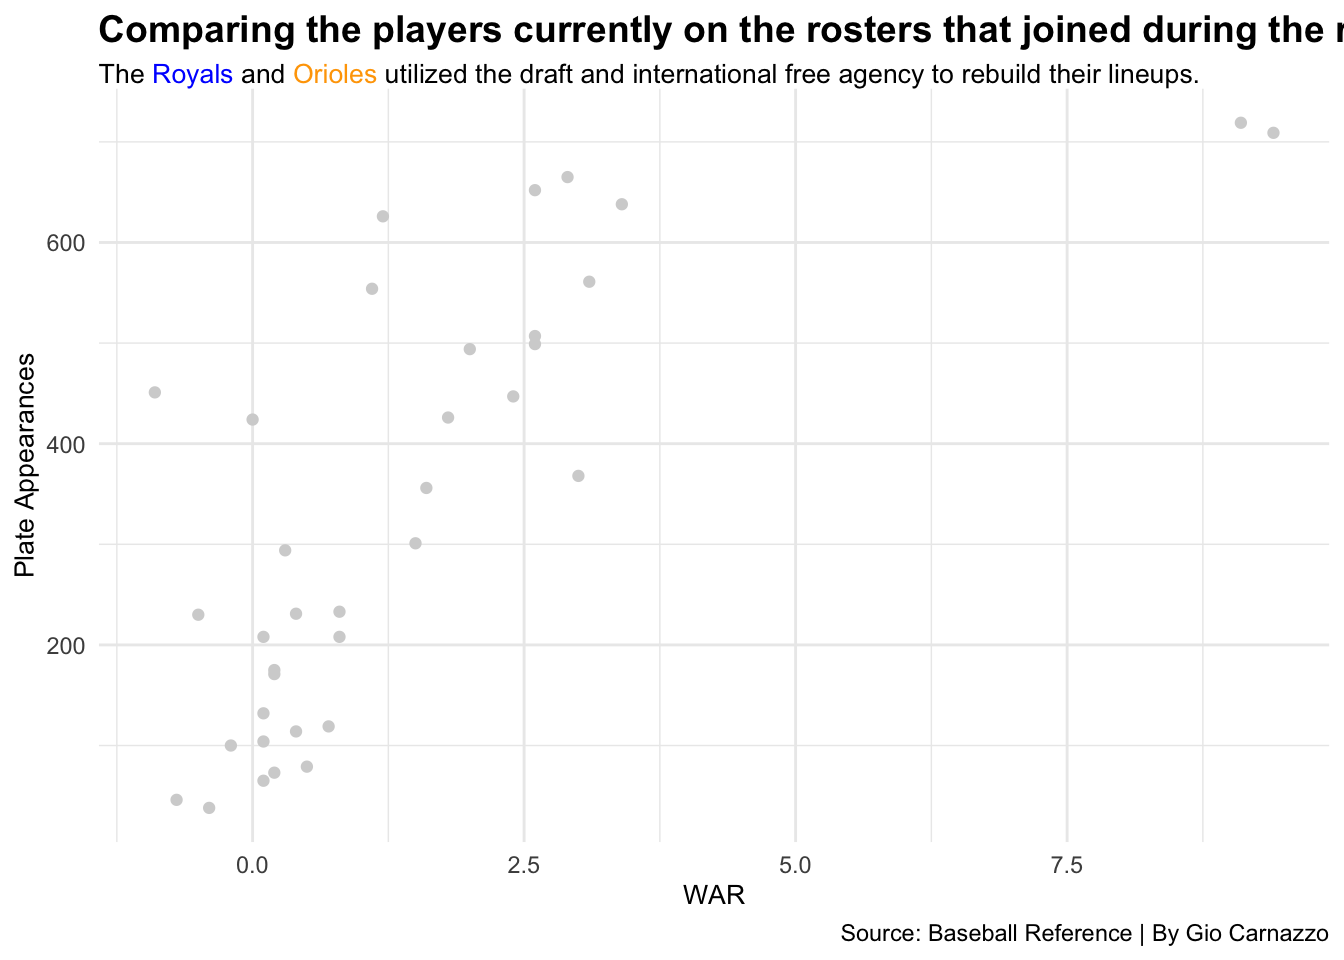
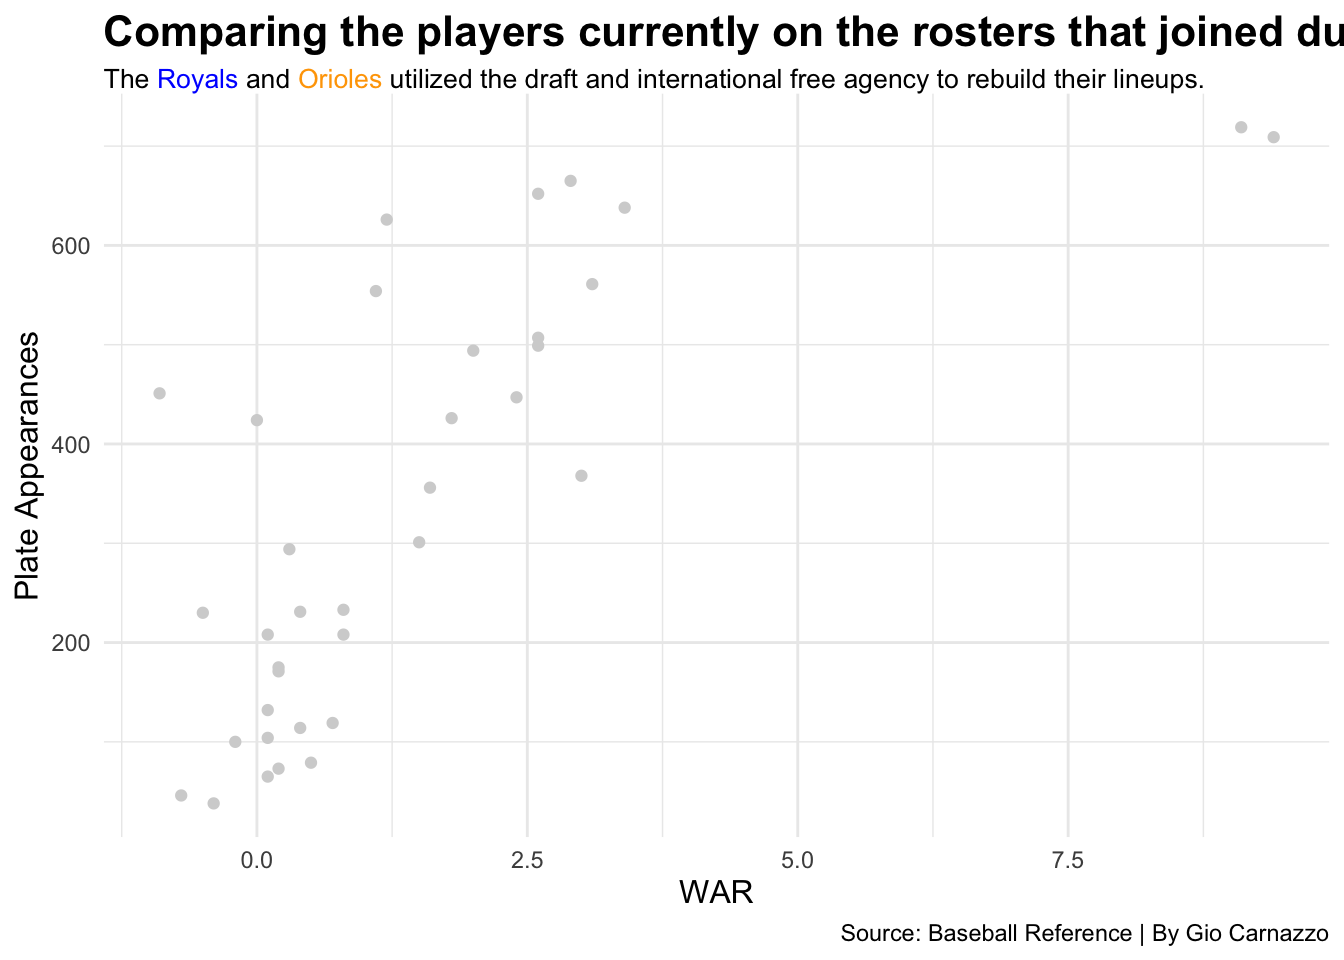
Upgrades

diff --git a/posts/royals-orioles-baseball-mlb-rebuild/index.html b/posts/royals-orioles-baseball-mlb-rebuild/index.html
@@ -340,9 +340,9 @@ pre > code.sourceCode > span > a:first-child::before { text-decoration: underlin
 <span id="cb4-24"><a href="#cb4-24" aria-hidden="true" tabindex="-1"></a>       <span class="at">subtitle =</span> <span class="st">"The &lt;span style = 'color:blue;'&gt;Royals&lt;/span&gt; and &lt;span style = 'color:orange;'&gt;Orioles&lt;/span&gt; utilized the draft and international free agency to rebuild their lineups."</span>,</span>
 <span id="cb4-25"><a href="#cb4-25" aria-hidden="true" tabindex="-1"></a>       <span class="at">caption=</span><span class="st">"Source: Baseball Reference | By Gio Carnazzo"</span>) <span class="sc">+</span></span>
 <span id="cb4-26"><a href="#cb4-26" aria-hidden="true" tabindex="-1"></a>  <span class="fu">theme</span>(</span>
-<span id="cb4-27"><a href="#cb4-27" aria-hidden="true" tabindex="-1"></a>    <span class="at">plot.title =</span> <span class="fu">element_text</span>(<span class="at">size =</span> <span class="dv">14</span>, <span class="at">face =</span> <span class="st">"bold"</span>),</span>
+<span id="cb4-27"><a href="#cb4-27" aria-hidden="true" tabindex="-1"></a>    <span class="at">plot.title =</span> <span class="fu">element_text</span>(<span class="at">size =</span> <span class="dv">16</span>, <span class="at">face =</span> <span class="st">"bold"</span>),</span>
 <span id="cb4-28"><a href="#cb4-28" aria-hidden="true" tabindex="-1"></a>    <span class="at">plot.subtitle =</span> <span class="fu">element_textbox_simple</span>(<span class="at">size =</span> <span class="dv">10</span>),</span>
-<span id="cb4-29"><a href="#cb4-29" aria-hidden="true" tabindex="-1"></a>    <span class="at">axis.title =</span> <span class="fu">element_text</span>(<span class="at">size =</span> <span class="dv">10</span>),</span>
+<span id="cb4-29"><a href="#cb4-29" aria-hidden="true" tabindex="-1"></a>    <span class="at">axis.title =</span> <span class="fu">element_text</span>(<span class="at">size =</span> <span class="dv">12</span>),</span>
 <span id="cb4-30"><a href="#cb4-30" aria-hidden="true" tabindex="-1"></a>    <span class="at">panel.grid.minor =</span> <span class="fu">element_line</span>()</span>
 <span id="cb4-31"><a href="#cb4-31" aria-hidden="true" tabindex="-1"></a>  )</span></code><button title="Copy to Clipboard" class="code-copy-button"><i class="bi"></i></button></pre></div>
 </details>

diff --git a/index.html b/index.html
@@ -200,7 +200,7 @@ window.Quarto = {
 
 <div class="quarto-listing quarto-listing-container-default" id="listing-listing">
 <div class="list quarto-listing-default">
[2 lines of base64/hex data omitted]
 <div class="thumbnail">
 <p><a href="./posts/royals-orioles-baseball-mlb-rebuild/index.html" class="no-external"></a></p><a href="./posts/royals-orioles-baseball-mlb-rebuild/index.html" class="no-external">
 <p><img loading="lazy" src="./posts/royals-orioles-baseball-mlb-rebuild/image.png" class="thumbnail-image"></p>
